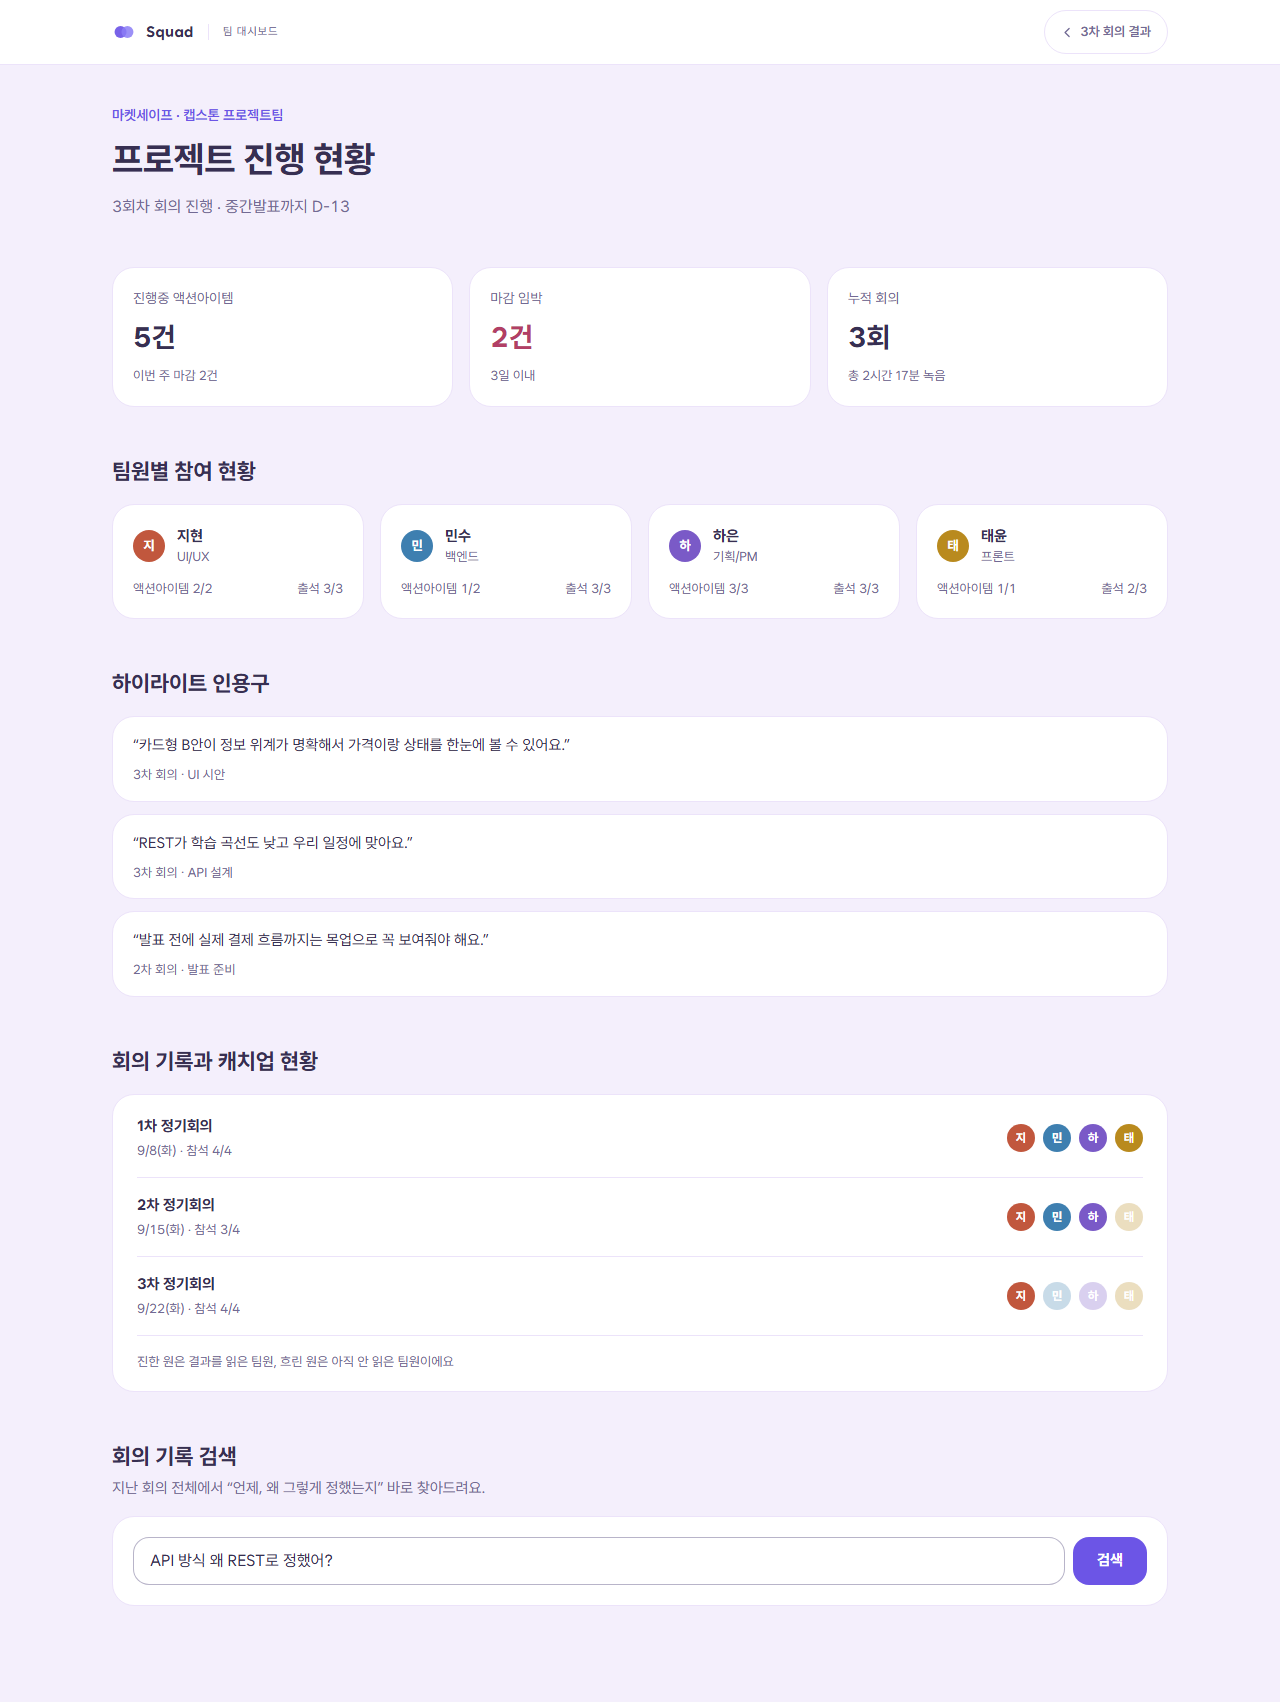
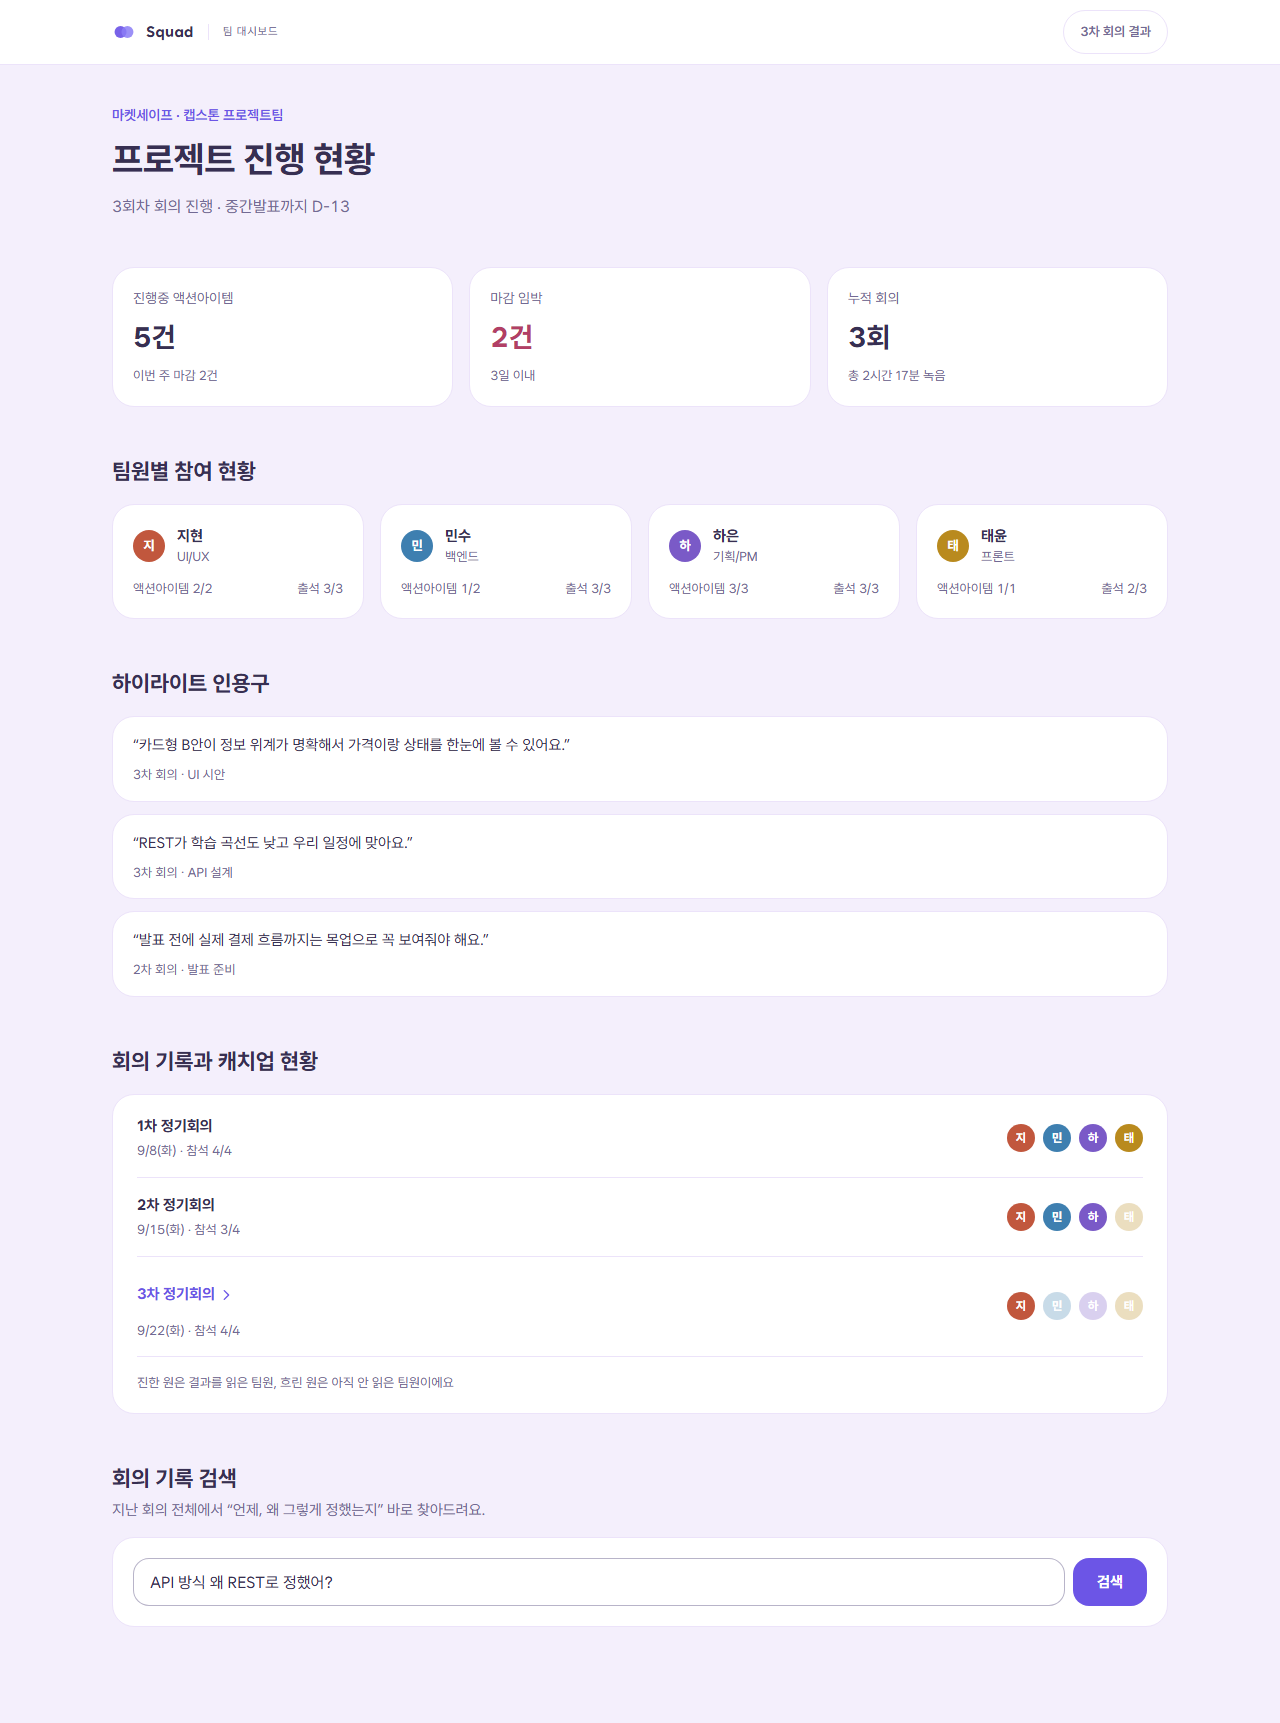
feat(web): 프로젝트 페이지 연결
대시보드와 회의 결과를 프로젝트 주소(/p/[id]) 아래로 이동
메인 페이지와 팀 대시보드, 회의 결과 페이지 연결

diff --git a/apps/web/app/p/[id]/page.tsx b/apps/web/app/p/[id]/page.tsx
@@ -1,4 +1,5 @@
 import type { Metadata } from "next";
+import { notFound } from "next/navigation";
 import { SiteHeader } from "@/components/ui/SiteHeader";
 import { SectionHeading } from "@/components/ui/SectionHeading";
 import { KpiTile } from "@/components/dashboard/KpiTile";
@@ -6,20 +7,37 @@ import { ParticipationCard } from "@/components/dashboard/ParticipationCard";
 import { HighlightList } from "@/components/dashboard/HighlightList";
 import { MeetingHistory } from "@/components/dashboard/MeetingHistory";
 import { MeetingSearch } from "@/components/dashboard/MeetingSearch";
-import { getDashboard } from "@/lib/sample-data";
+import { getDashboard, getMeeting } from "@/lib/sample-data";
+import { meetingPath } from "@/lib/paths";
 import { memberMap } from "@/lib/format";
 import { pageTitle } from "@/lib/brand";
 
-export const metadata: Metadata = { title: pageTitle("팀 대시보드") };
+// Next 14: params는 일반 객체입니다(Next 15부터는 Promise).
+type Params = { params: { id: string } };
 
-export default function DashboardPage() {
-  const data = getDashboard();
+export function generateMetadata({ params }: Params): Metadata {
+  return { title: pageTitle(getDashboard(params.id) ? "팀 대시보드" : "프로젝트를 찾을 수 없어요") };
+}
+
+// 프로젝트 메인(/p/[id]) — 지금은 팀 대시보드가 곧 프로젝트 메인
+export default function ProjectMainPage({ params }: Params) {
+  const data = getDashboard(params.id);
+  if (!data) notFound();
+
   const byId = memberMap(data.members);
-  const latest = data.rounds[data.rounds.length - 1];
+  // 결과 페이지가 있는 회의만 링크로 연결 (예시 데이터는 3차 회의만 결과가 있음)
+  const meetingHrefs: Record<string, string> = {};
+  for (const r of data.rounds) {
+    if (getMeeting(params.id, r.id)) meetingHrefs[r.id] = meetingPath(params.id, r.id);
+  }
+  const latest = [...data.rounds].reverse().find((r) => meetingHrefs[r.id]);
 
   return (
     <div className="min-h-screen break-keep bg-surface-alt [overflow-wrap:anywhere]">
-      <SiteHeader context="팀 대시보드" nav={{ href: "/meetings/sample", label: `${latest?.shortLabel ?? ""} 회의 결과`, icon: "back" }} />
+      <SiteHeader
+        context="팀 대시보드"
+        nav={latest ? { href: meetingHrefs[latest.id], label: `${latest.shortLabel} 회의 결과`, shortLabel: "최근 회의" } : undefined}
+      />
 
       <main className="mx-auto flex w-full max-w-page flex-col gap-12 px-5 pb-24 pt-10 sm:px-8">
         <section className="flex animate-fade-up flex-col gap-2">
@@ -51,7 +69,7 @@ export default function DashboardPage() {
 
         <section aria-labelledby="history-title" className="flex flex-col gap-4">
           <SectionHeading id="history-title" title="회의 기록과 캐치업 현황" />
-          <MeetingHistory rounds={data.rounds} members={data.members} />
+          <MeetingHistory rounds={data.rounds} members={data.members} hrefs={meetingHrefs} />
         </section>
 
         <section aria-labelledby="search-title" className="flex flex-col gap-4">

diff --git a/apps/web/components/projects/ProjectNewForm.tsx b/apps/web/components/projects/ProjectNewForm.tsx
@@ -3,6 +3,7 @@
 import Link from "next/link";
 import { useState } from "react";
 import { RecoveryCodeDialog } from "./RecoveryCodeDialog";
+import { SAMPLE_PROJECT_ID, projectPath } from "@/lib/paths";
 
 // 기본 프로젝트 설정 폼 (/projects/new)
 // 지금은 화면만 있는 예시: 입력 검사까지 하고, 실제 생성(POST /api/projects)은 DB 단계에서 연결.
@@ -81,6 +82,8 @@ export function ProjectNewForm() {
   const [members, setMembers] = useState<string[]>([]);
   const [errors, setErrors] = useState<Errors>({});
   const [notice, setNotice] = useState<string | null>(null);
+  // 예시 생성이 끝났는지. 실제 생성(DB)이 생기면 만든 프로젝트 주소로 바로 이동
+  const [created, setCreated] = useState(false);
   const [dialogOpen, setDialogOpen] = useState(false);
 
   function addMember() {
@@ -118,6 +121,7 @@ export function ProjectNewForm() {
     setErrors(next);
     if (next.name || next.leader) {
       setNotice(null);
+      setCreated(false);
       return;
     }
     // 입력이 맞으면 복구 코드 팝업부터 (주의 → 코드 → 확인). 실제 생성은 팝업의 코드 단계에서 일어남
@@ -247,6 +251,14 @@ export function ProjectNewForm() {
       <div className="flex flex-col gap-3">
         <p aria-live="polite" className="m-0 rounded-sm bg-accent-soft px-4 py-3 text-sm text-accent-deep empty:hidden">
           {notice}
+          {created ? (
+            <>
+              {" "}
+              <Link href={projectPath(SAMPLE_PROJECT_ID)} className="font-bold text-accent-deep underline underline-offset-2 hover:text-ink">
+                샘플 프로젝트 메인 보기
+              </Link>
+            </>
+          ) : null}
         </p>
         <div className="flex flex-col gap-3 md:flex-row-reverse md:items-center">
           <button
@@ -271,6 +283,7 @@ export function ProjectNewForm() {
           setDialogOpen(false);
           // TODO: 생성 완료·초대 공유 화면으로 이동
           setNotice("프로젝트를 만들었어요(예시). 다음 단계에서 초대 공유 화면으로 이어져요.");
+          setCreated(true);
         }}
       />
     </form>

diff --git a/apps/web/e2e/navigation.spec.ts b/apps/web/e2e/navigation.spec.ts
@@ -1,0 +1,39 @@
+import { expect, test } from "@playwright/test";
+
+// 화면끼리 이어지는지: 메인 → 프로젝트 메인(대시보드) → 회의 결과 → 다시 프로젝트 메인
+test.describe("화면 연결", () => {
+  test("메인에서 샘플 프로젝트를 거쳐 회의 결과까지 이동한다", async ({ page }) => {
+    await page.setViewportSize({ width: 1280, height: 800 });
+    await page.goto("/");
+    await page.getByRole("link", { name: "샘플 프로젝트 보기" }).click();
+    await expect(page).toHaveURL("/p/sample");
+    await expect(page.getByRole("heading", { level: 1 })).toHaveText("프로젝트 진행 현황");
+
+    // 회의 기록에서 결과가 있는 회의만 링크
+    await page.getByRole("link", { name: "3차 정기회의" }).click();
+    await expect(page).toHaveURL("/p/sample/meetings/m3");
+    await expect(page.getByRole("heading", { level: 1 })).toHaveText("3차 정기회의 결과");
+
+    await page.getByRole("link", { name: "팀 대시보드" }).click();
+    await expect(page).toHaveURL("/p/sample");
+  });
+
+  test("결과가 없는 회의는 링크가 아니다", async ({ page }) => {
+    await page.goto("/p/sample");
+    await expect(page.getByRole("link", { name: "1차 정기회의" })).toHaveCount(0);
+    await expect(page.getByText("1차 정기회의")).toBeVisible();
+  });
+
+  test("없는 프로젝트·회의 주소는 404", async ({ page }) => {
+    expect((await page.goto("/p/nope"))?.status()).toBe(404);
+    expect((await page.goto("/p/sample/meetings/nope"))?.status()).toBe(404);
+    expect((await page.goto("/p/nope/meetings/m3"))?.status()).toBe(404);
+  });
+
+  test("예전 예시 주소는 새 주소로 넘어간다", async ({ page }) => {
+    await page.goto("/dashboard");
+    await expect(page).toHaveURL("/p/sample");
+    await page.goto("/meetings/sample");
+    await expect(page).toHaveURL("/p/sample/meetings/m3");
+  });
+});

diff --git a/apps/web/components/ui/SiteHeader.tsx b/apps/web/components/ui/SiteHeader.tsx
@@ -5,8 +5,8 @@ import { LogoMark } from "./Logo";
 type Props = {
   /** 로고 오른쪽 라벨 (메인 화면처럼 없으면 생략) */
   context?: string;
-  /** 우측 이동 버튼 */
-  nav: {
+  /** 우측 이동 버튼 (없으면 생략) */
+  nav?: {
     href: string;
     label: string;
     /** 좁은 화면(모바일)에서 대신 보여줄 짧은 라벨 */
@@ -46,20 +46,22 @@ export function SiteHeader({ context, nav }: Props) {
             <span className="hidden font-display text-[11px] uppercase tracking-[.08em] text-ink-soft sm:block">{context}</span>
           </>
         ) : null}
-        <Link
-          href={nav.href}
-          className="ml-auto inline-flex min-h-11 items-center gap-1.5 rounded-full border border-line bg-white px-4 text-[13px] font-semibold text-ink-soft transition-colors duration-150 hover:border-accent hover:text-accent-strong"
-        >
-          {nav.icon ? <NavIcon kind={nav.icon} /> : null}
-          {nav.shortLabel ? (
-            <>
-              <span className="sm:hidden">{nav.shortLabel}</span>
-              <span className="hidden sm:inline">{nav.label}</span>
-            </>
-          ) : (
-            nav.label
-          )}
-        </Link>
+        {nav ? (
+          <Link
+            href={nav.href}
+            className="ml-auto inline-flex min-h-11 items-center gap-1.5 rounded-full border border-line bg-white px-4 text-[13px] font-semibold text-ink-soft transition-colors duration-150 hover:border-accent hover:text-accent-strong"
+          >
+            {nav.icon ? <NavIcon kind={nav.icon} /> : null}
+            {nav.shortLabel ? (
+              <>
+                <span className="sm:hidden">{nav.shortLabel}</span>
+                <span className="hidden sm:inline">{nav.label}</span>
+              </>
+            ) : (
+              nav.label
+            )}
+          </Link>
+        ) : null}
       </div>
     </header>
   );

diff --git a/apps/web/app/p/[id]/meetings/[mid]/page.tsx b/apps/web/app/p/[id]/meetings/[mid]/page.tsx
@@ -8,14 +8,15 @@ import { MindMap } from "@/components/meeting/MindMap";
 import { ScheduleList } from "@/components/meeting/ScheduleList";
 import { ExportBar } from "@/components/meeting/ExportBar";
 import { getMeeting } from "@/lib/sample-data";
+import { projectPath } from "@/lib/paths";
 import { formatFullDate, memberMap } from "@/lib/format";
 import { pageTitle } from "@/lib/brand";
 
 // Next 14: params는 일반 객체입니다(Next 15부터는 Promise).
-type Params = { params: { id: string } };
+type Params = { params: { id: string; mid: string } };
 
 export function generateMetadata({ params }: Params): Metadata {
-  const meeting = getMeeting(params.id);
+  const meeting = getMeeting(params.id, params.mid);
   return { title: pageTitle(meeting ? meeting.title : "회의를 찾을 수 없어요") };
 }
 
@@ -29,7 +30,7 @@ function MetaItem({ label, children }: { label: string; children: React.ReactNod
 }
 
 export default function MeetingResultPage({ params }: Params) {
-  const meeting = getMeeting(params.id);
+  const meeting = getMeeting(params.id, params.mid);
   if (!meeting) notFound();
 
   const byId = memberMap(meeting.members);
@@ -39,7 +40,7 @@ export default function MeetingResultPage({ params }: Params) {
 
   return (
     <div className="min-h-screen break-keep bg-surface-alt [overflow-wrap:anywhere]">
-      <SiteHeader context="회의 결과 기록" nav={{ href: "/dashboard", label: "팀 대시보드", icon: "grid" }} />
+      <SiteHeader context="회의 결과 기록" nav={{ href: projectPath(params.id), label: "팀 대시보드", icon: "back" }} />
 
       <main className="mx-auto flex w-full max-w-page flex-col gap-12 px-5 pb-24 pt-10 sm:px-8">
         <section className="flex animate-fade-up flex-col gap-6">

diff --git a/apps/web/components/dashboard/MeetingHistory.tsx b/apps/web/components/dashboard/MeetingHistory.tsx
@@ -1,19 +1,34 @@
+import Link from "next/link";
 import type { Member, MeetingRound } from "@/lib/types";
 import { Avatar } from "@/components/ui/Avatar";
 
 type Props = {
   rounds: MeetingRound[];
   members: Member[];
+  /** 회의 id → 결과 페이지 주소. 결과가 없는 회의는 빠져 있고 링크 없이 표시 */
+  hrefs?: Record<string, string>;
 };
 
-export function MeetingHistory({ rounds, members }: Props) {
+export function MeetingHistory({ rounds, members, hrefs = {} }: Props) {
   return (
     <div className="rounded-lg border border-line bg-white px-5 py-1 md:px-6">
       <ul className="m-0 list-none p-0">
         {rounds.map((r) => (
           <li key={r.id} className="flex flex-wrap items-center gap-4 border-b border-line py-4">
             <div className="min-w-[150px]">
-              <p className="m-0 text-[15px] font-bold">{r.title}</p>
+              {hrefs[r.id] ? (
+                <Link
+                  href={hrefs[r.id]}
+                  className="inline-flex min-h-11 items-center gap-1 text-[15px] font-bold text-accent-strong no-underline transition-colors duration-150 hover:text-accent-deep"
+                >
+                  {r.title}
+                  <svg width="14" height="14" viewBox="0 0 16 16" aria-hidden="true">
+                    <path d="M6 3l5 5-5 5" stroke="currentColor" strokeWidth="1.6" fill="none" strokeLinecap="round" strokeLinejoin="round" />
+                  </svg>
+                </Link>
+              ) : (
+                <p className="m-0 text-[15px] font-bold">{r.title}</p>
+              )}
               <p className="mt-1 text-[13px] tabular-nums text-ink-soft">
                 {r.dateLabel} · 참석 {r.attendDone}/{r.attendTotal}
               </p>

diff --git a/apps/web/lib/sample-data.ts b/apps/web/lib/sample-data.ts
@@ -1,4 +1,5 @@
 import type { Dashboard, Meeting, Member } from "./types";
+import { SAMPLE_PROJECT_ID, meetingPath } from "./paths";
 
 // 목업과 동일한 예시 데이터. 실제 연결 시 DB 조회 결과로 교체합니다.
 
@@ -10,7 +11,7 @@ export const members: Member[] = [
 ];
 
 export const sampleMeeting: Meeting = {
-  id: "sample",
+  id: "m3",
   teamName: "마켓세이프 · 캡스톤 프로젝트팀",
   title: "3차 정기회의 결과",
   shortTitle: "3차 회의",
@@ -103,15 +104,16 @@ export const sampleDashboard: Dashboard = {
     answer:
       "3차 회의(9/22)에서 민수가 제안했어요: \"REST가 학습 곡선도 낮고 일정에 맞다\"는 이유로, 하은도 \"GraphQL은 오버스펙\"이라며 동의해 REST 방식으로 최종 확정했습니다.",
     linkLabel: "3차 회의 · 안건 02 바로가기",
-    href: "/meetings/sample#summary",
+    href: `${meetingPath(SAMPLE_PROJECT_ID, "m3")}#summary`,
   },
 };
 
-/** 샘플 데이터 조회 — 실제로는 DB/API 호출로 교체 */
-export function getMeeting(id: string): Meeting | null {
-  return id === sampleMeeting.id ? sampleMeeting : null;
+/** 샘플 데이터 조회 — 실제로는 DB/API 호출로 교체. 없는 프로젝트·회의는 null */
+export function getMeeting(projectId: string, meetingId: string): Meeting | null {
+  if (projectId !== SAMPLE_PROJECT_ID) return null;
+  return meetingId === sampleMeeting.id ? sampleMeeting : null;
 }
 
-export function getDashboard(): Dashboard {
-  return sampleDashboard;
+export function getDashboard(projectId: string): Dashboard | null {
+  return projectId === SAMPLE_PROJECT_ID ? sampleDashboard : null;
 }

diff --git a/apps/web/app/page.tsx b/apps/web/app/page.tsx
@@ -4,11 +4,12 @@ import { InviteCodeForm } from "@/components/home/InviteCodeForm";
 import { MyProjectList } from "@/components/home/MyProjectList";
 import { BRAND } from "@/lib/brand";
 import { getMyProjects } from "@/lib/my-projects";
+import { SAMPLE_PROJECT_ID, projectPath } from "@/lib/paths";
 
 // 메인(/) — 프로젝트 만들기, 초대 코드로 참여, 이 기기의 내 프로젝트
-// 샘플 프로젝트는 아직 /dashboard 예시 화면으로 연결 (프로젝트 메인 /p/[id]를 만들면 옮김)
+// 샘플 프로젝트는 예시 데이터로 동작하는 프로젝트 메인(/p/sample)으로 연결
 // 표현 원칙: 그라데이션·빛나는 그림자 없이 단색 면과 얇은 선으로 정리 (Flat 방향)
-const SAMPLE_HREF = "/dashboard";
+const SAMPLE_HREF = projectPath(SAMPLE_PROJECT_ID);
 
 type IconName = "list" | "flow" | "export";
 

diff --git a/apps/web/lib/paths.ts b/apps/web/lib/paths.ts
@@ -1,0 +1,12 @@
+// 화면 주소를 한 곳에서 만든다. 주소 구조가 바뀌면 여기만 고치면 됨
+
+/** 예시 프로젝트 id — 메인의 "샘플 프로젝트 보기"가 여는 /p/sample (DB 연결 전까지 유일한 프로젝트) */
+export const SAMPLE_PROJECT_ID = "sample";
+
+export function projectPath(projectId: string): string {
+  return `/p/${encodeURIComponent(projectId)}`;
+}
+
+export function meetingPath(projectId: string, meetingId: string): string {
+  return `${projectPath(projectId)}/meetings/${encodeURIComponent(meetingId)}`;
+}

diff --git a/apps/web/e2e/projects-new.spec.ts b/apps/web/e2e/projects-new.spec.ts
@@ -47,6 +47,10 @@ test.describe("프로젝트 만들기 · 기본 설정", () => {
     await done.click();
     await expect(dialog).toBeHidden();
     await expect(page.getByText(/프로젝트를 만들었어요/)).toBeVisible();
+
+    // 만든 뒤에는 프로젝트 메인으로 이어짐 (지금은 샘플 프로젝트)
+    await page.getByRole("link", { name: "샘플 프로젝트 메인 보기" }).click();
+    await expect(page).toHaveURL("/p/sample");
   });
 
   test("주의 단계에서는 돌아가기로 취소할 수 있다", async ({ page }) => {

diff --git a/apps/web/e2e/screens.spec.ts b/apps/web/e2e/screens.spec.ts
@@ -12,8 +12,8 @@ import { expect, test } from "@playwright/test";
 const pages = [
   { name: "home", path: "/" },
   { name: "projects-new", path: "/projects/new" },
-  { name: "meeting", path: "/meetings/sample" },
-  { name: "dashboard", path: "/dashboard" },
+  { name: "meeting", path: "/p/sample/meetings/m3" },
+  { name: "dashboard", path: "/p/sample" },
 ] as const;
 
 const viewports = [

diff --git a/README.md b/README.md
@@ -13,8 +13,8 @@ npm install
 npm run dev
 # http://localhost:3000                  메인 (프로젝트 만들기 · 초대 코드로 참여 · 내 프로젝트)
 # http://localhost:3000/projects/new     프로젝트 만들기
-# http://localhost:3000/meetings/sample  회의 결과 (예시 데이터)
-# http://localhost:3000/dashboard        팀 대시보드 (예시 데이터)
+# http://localhost:3000/p/sample                프로젝트 메인 · 팀 대시보드 (예시 데이터)
+# http://localhost:3000/p/sample/meetings/m3    회의 결과 (예시 데이터)
 ```
 
 화면(UI)을 하나씩 만들어 가는 중입니다. 회의 결과·대시보드는 예시 데이터로 동작하고, 백엔드(로그인, DB, STT, 요약, Notion 내보내기)는 아직 없습니다.
